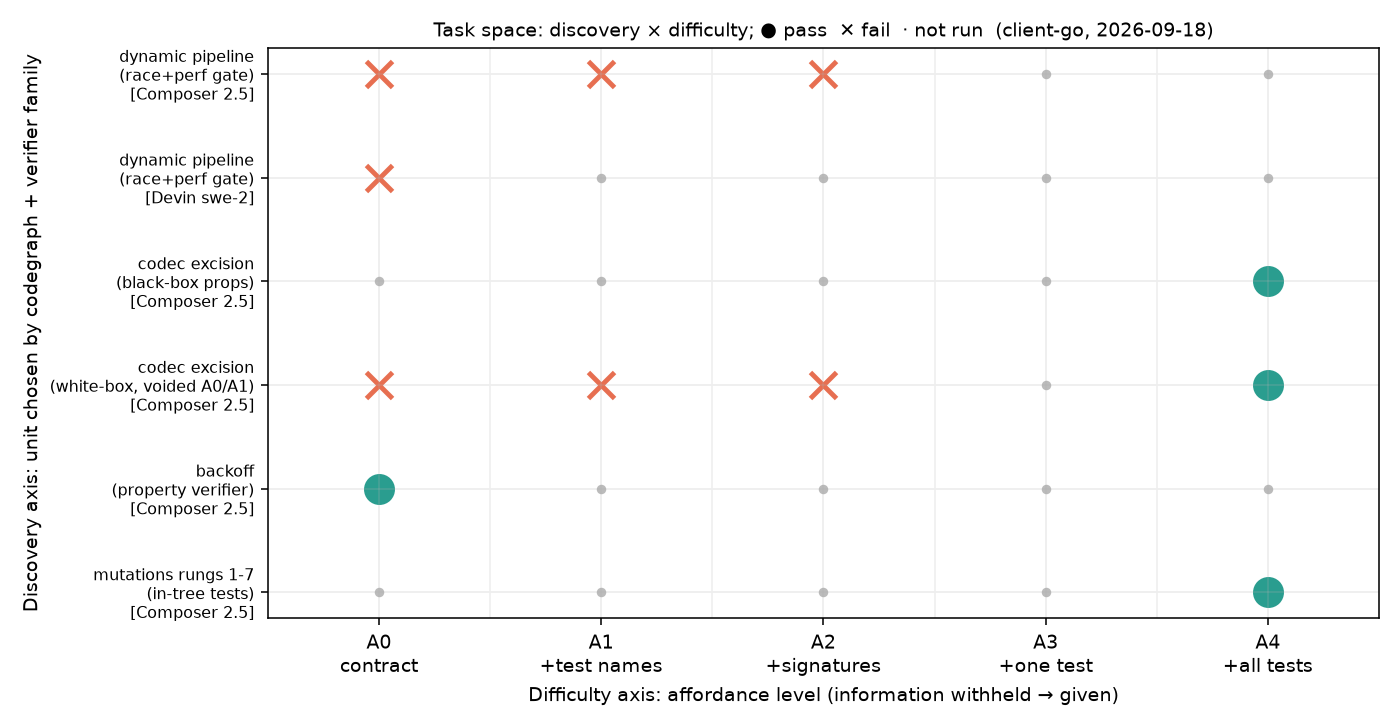
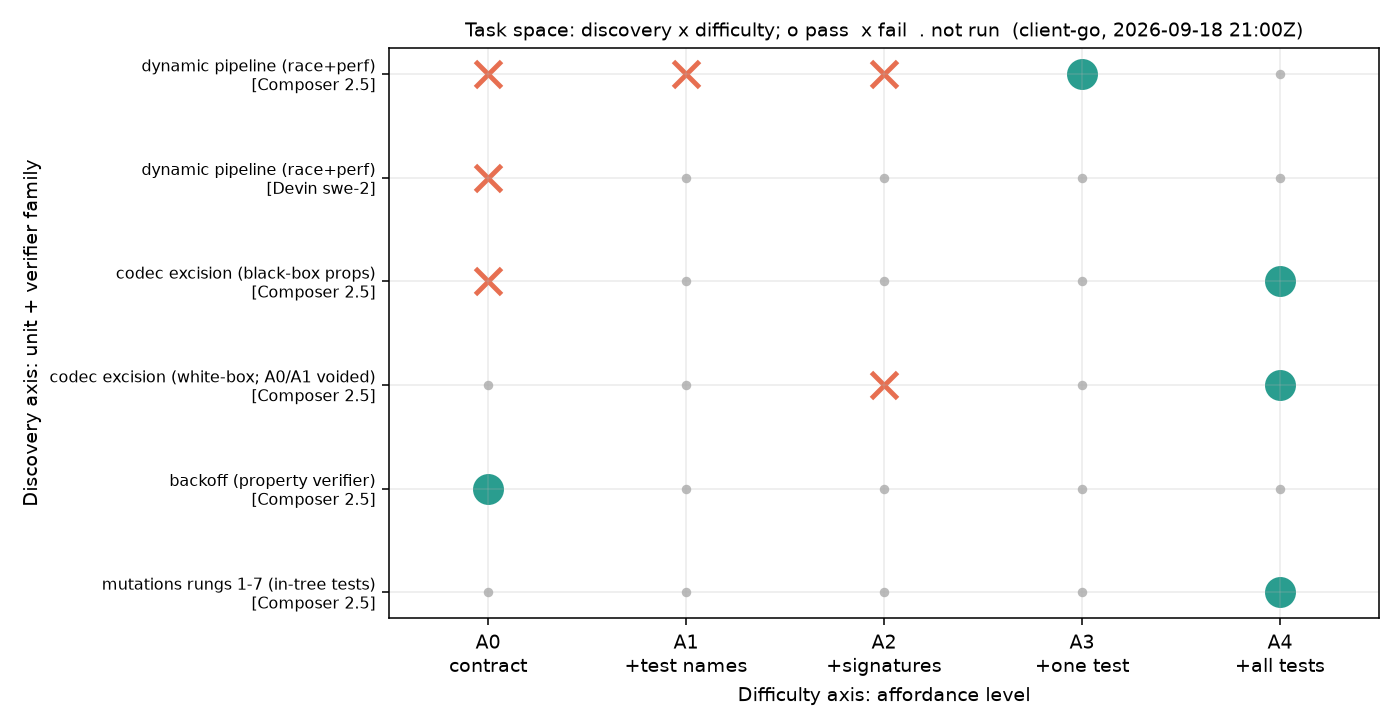
onepc-obf marked invalid as built; framework figure/table updated with A3 flip point and black-box A0

diff --git a/experiments/harbor_nex/FAILURE_AUDIT_A0.md b/experiments/harbor_nex/FAILURE_AUDIT_A0.md
@@ -43,3 +43,7 @@ Devin: 1 clean legitimate fail so far, marginally closer than Composer on the sa
 |---|---|---|---|
 | dynamic-pipeline-A3 (Composer) | **PASS** 5.4 min | clean | one hidden test file restored; race clean, perf gate 37.65 ≤ 113 ns/op; no web, no network commands, 18 edits. **Flip point for Composer on this unit = A3.** |
 | spec-reimpl-bb-A0 (Composer) | FAIL | (a) provisional | black-box property suite; 93 edits, no web; fails `TestCodecContractExamples` (the instruction's own worked examples). Provisional pending a check that the instruction examples and the test's expectations agree (if they disagree it is class (c)). bb-A1 launched. |
+
+Addendum 20:58Z: `client-go-onepc-scope-obf` is INVALID as built (consumer module does not compile offline
+after obfuscation); its Composer fail is excluded. `spec-reimpl-bb-A0` examples in the instruction match
+`TestCodecContractExamples` byte-for-byte (0x72 00 10 92 + "key"), so that fail is class (a), confirmed.

diff --git a/analytics/research/task_space_framework.md b/analytics/research/task_space_framework.md
@@ -42,8 +42,8 @@ not of the unit alone. Current flip points on client-go:
 
 | unit | verifier family | Composer 2.5 | Devin swe-2-high | notes |
 |---|---|---|---|---|
-| dynamic pipeline | race + throughput gate | > A2 (A3 running) | > A0 (A1 not run) | deadlock at A2; Devin one test short at A0 |
-| codec excision | black-box properties | A0 running | – | A0 white-box fail confirmed behavioral by black-box re-score |
+| dynamic pipeline | race + throughput gate | **A3** | > A0 (A1 not run) | fails A0-A2 (deadlock at A2), passes A3 in 5.4 min; Devin one test short at A0 |
+| codec excision | black-box properties | > A0 (A1 running) | – | A0 fail on contract examples, confirmed class (a) |
 | backoff | property verifier | A0 | – | properties in words + 3 examples sufficed |
 | any mutation rung 1–7 | in-tree example tests | A4 (trivially) | – | 26/26; also 36/36 Grok, contaminated |
 
